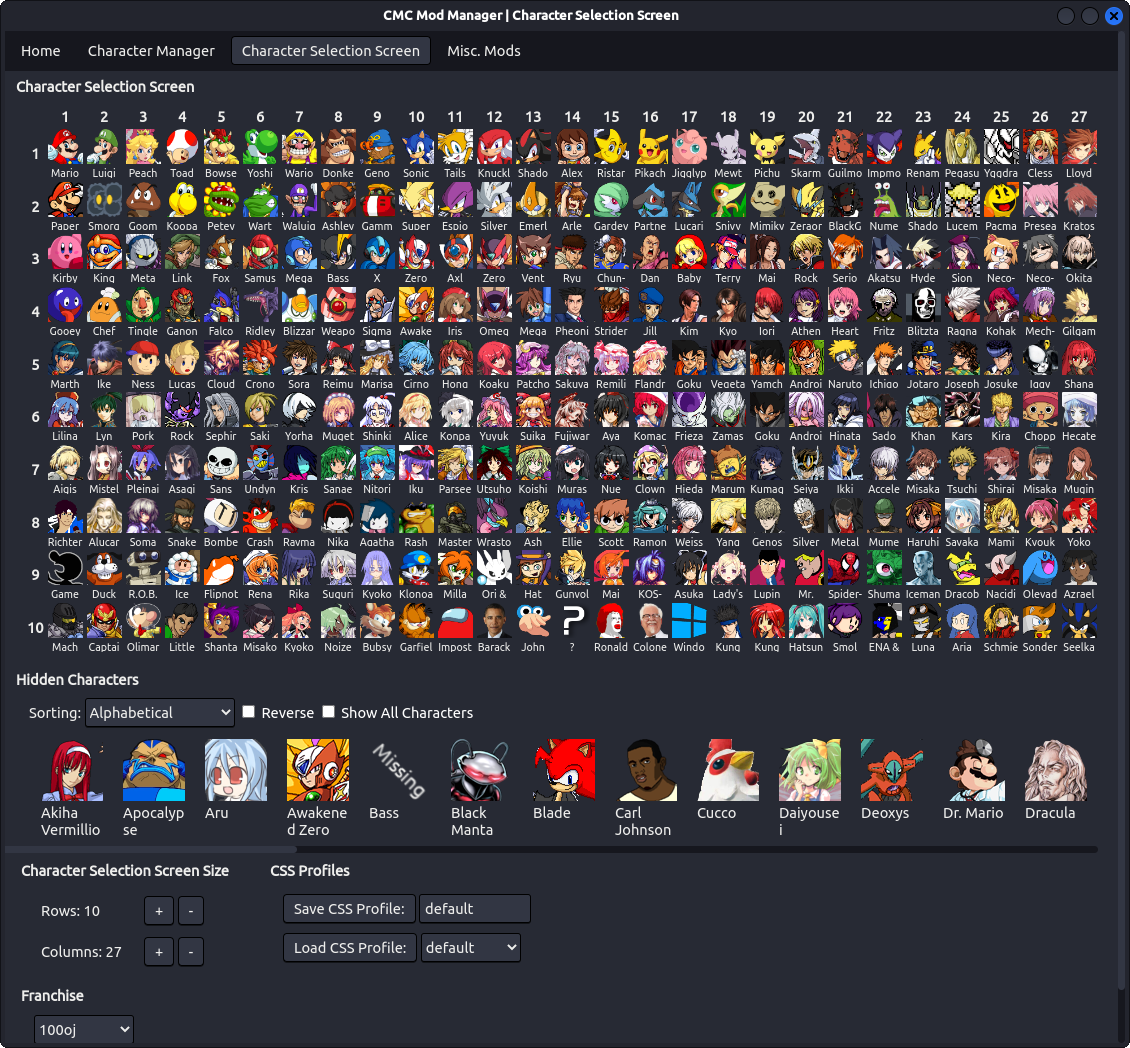
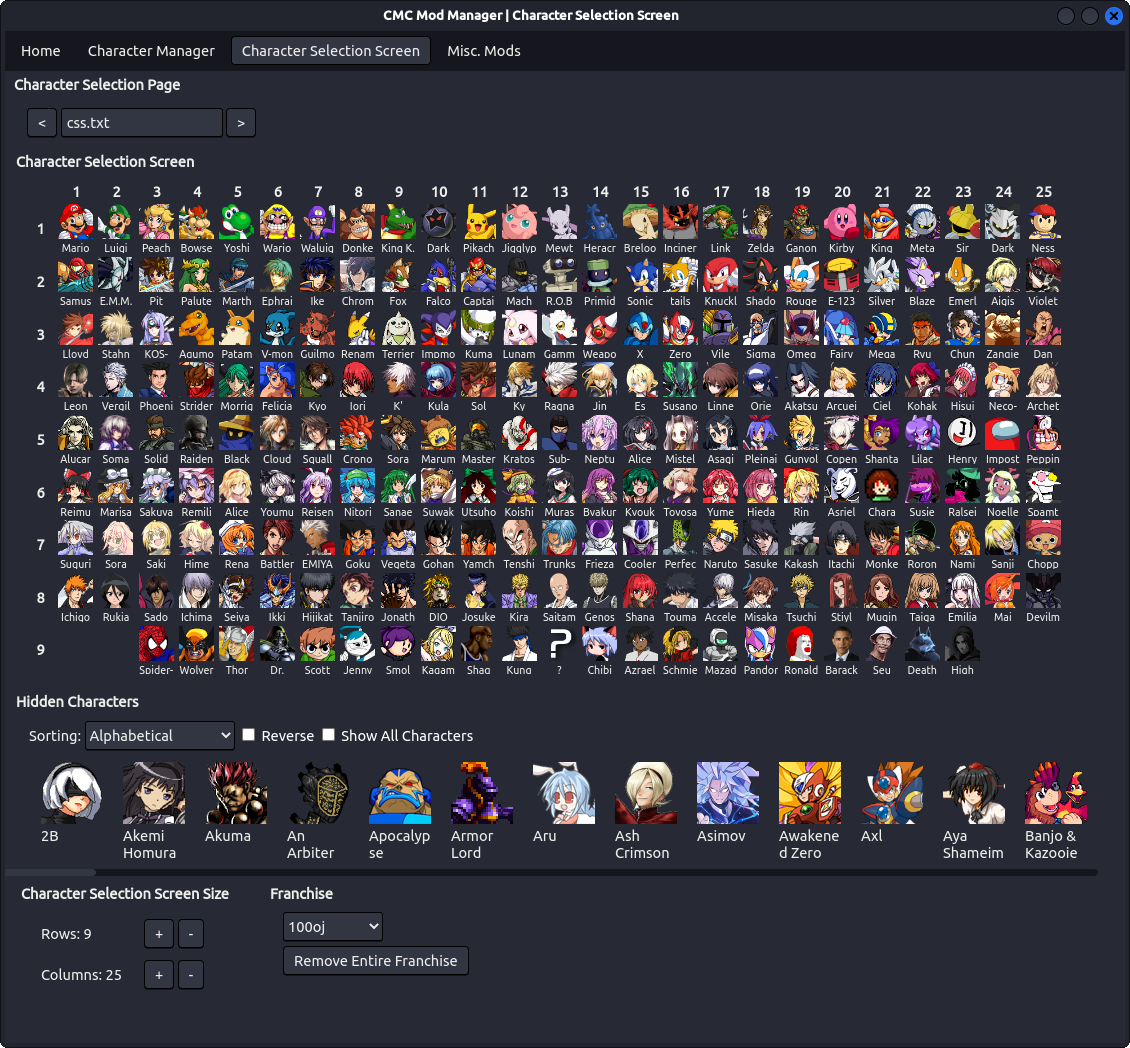
Staging For First Release

diff --git a/README.md b/README.md
@@ -1,45 +1,49 @@
 # CMC Mod Manager
-
 ## What
-This project is a WIP mod manager for Super Smash Brothers Crusade CMC+. It allows for the installation and managing of mods through a gui.
+This project is a WIP mod manager for Super Smash Brothers Crusade CMC+. It allows for the installation and management of mods through a GUI.
+### NOTE:
+Usage of this mod manger will 'spoil' the hidden characters as they are displayed in the program without the locked icon.
 ### Supported Versions
 - [ ] [CMC+ v8](https://gamebanana.com/mods/50383)
 - [x] [CMC+ v7.1.1](https://gamebanana.com/mods/50383)
 - [x] [CMC+ Open Build](https://discord.gg/kAbEBkx5Y4)
 ## Why
-CMC+ has good modding support and modding the game currently isn't that hard why use a mod manager? The main reason I developed this mod manager is for the CSS (Character Selection Screen) editor. Although it is certainly possible, adding characters to the CSS by hand annoyed me because of the need to find character numbers and names (if you are removing unknown characters). CMC Mod Manager allows you to add, swap or remove chracters to/from the CSS (and soon the SSS) with drag and drop.
+CMC+ has good modding support and modding the game currently isn't that hard why use a mod manager? The main reason I developed this mod manager is for the CSS (Character Selection Screen) editor. Although it is certainly possible, adding characters to the CSS by hand annoyed me because of the need to find character numbers and names (if you are removing unknown characters). CMC Mod Manager allows you to add, swap or remove characters to/from the CSS (and soon the SSS) with drag and drop.
 
-![CSS Editor](./CSS.png)
+<details>
+  <summary>Character Selection Screen Editor (Contains Locked Character Spoilers)</summary>
+
+  ![CSS Editor](./CSS.png)
+</details>
+
 ## Installation
 Go [here](https://github.com/Inferno214221/CMCModManager/releases/latest) to install the latest release of CMC Mod Manager for your operating system.
 ### Windows
 After downloading the zip, extract it in the directory you wish to install it in and run the exe.
 #### NOTE:
-When installing the basegame, merging, installing mods or completing any other task that requires file system operations Windows will say that the program is not responding. This is Window's fault not mine, the program is actually doing what it is supposed to, just wait for it to finish. The program makes two copies of the game, one without mods and one with mods, so it will sometimes take a while (I'm running it on an M.2 and I still had this issue so please just be patient).
+When installing the basegame, merging, installing mods or completing any other task that requires file system operations Windows will say that the program is not responding. This is Window's fault, not mine, the program is actually doing what it is supposed to, just wait for it to finish. The program makes two copies of the game, one without mods and one with mods, so it will sometimes take a while (I'm running it on an M.2 and I still had this issue so please just be patient).
 ### Linux
-After downloading the zip, extract it and copy the `/out/cmcmodmanager-linux-x64/` folder to where you would like to install it, e.g. `/opt` (Feel free to rename it as well). Due to CMC+ being built for windows, the default permissions are very wierd with some directories being read only. To fix this it is very important that you run `sudo chmod 777 ./* -R` in your CMC game directory before installing it with your mod manager, otherwise the program will be unable to remove some of the files it is using.
+After downloading the zip, extract it and copy the `/out/cmcmodmanager-linux-x64/` folder to where you would like to install it, e.g. `/opt` (Feel free to rename it as well). Due to CMC+ being built for Windows, the default permissions are very weird with some directories being read-only. To fix this it is very important that you run `sudo chmod 777 ./* -R` in your CMC game directory before installing it with your mod manager, otherwise, the program will be unable to remove some of the files it is using.
 #### NOTE:
-If you are having issues running SSBC / CMC+ on Linux, use wine version 6 rather than 7 or 8 and it plays perfectly (Idk what proton version).
+If you are having issues running SSBC / CMC+ on Linux, use Wine version 6 rather than 7 or 8 and it plays perfectly (Idk what proton version).
 ### MacOS
-Install [Asahi Linux](https://asahilinux.org/), then procede with the Linux installation steps. 
+Install [Asahi Linux](https://asahilinux.org/), then proceed with the Linux installation steps. 
 #### NOTE:
 The above statement is double reverse sarcastic.
 ## Usage
-// ensure characters are correct
-## Notes
-This is my first time using Electron and therefore the code is a bit of a mess sorry.
+After installing CMC Mod Manager the first step is to import the basegame. Under the 'Home' tab select 'Import Basegame' and select the folder with CMC's exe in it. After pressing OK, the mod manager will make a copy of the game in its own directory, which might take a while. Afterwards, you can delete the previous copy and only use the mod manager's if you'd like to save space. When importing the basegame or merging mods on Windows, it is very likely that you will receive a warning that the program is not responding. Please ignore this and let it run anyway.
+
+To install character mods, switch to the 'Character Manager' tab and select 'Install from Directory' or 'Install From Archive'. Any characters that you want to install should be formatted correctly so that all of the files in the mod's directory would be copied into the game's without modification (e.g. no separate folders for different game versions). After installing any mod, remember to 'Merge All Mods' from the 'Home' tab.
+
+The 'Character Selection Screen' tab can be used after merging to modify which characters are available to choose from on the selection screen by dragging and dropping characters between the CSS grid and the list underneath.
 ## It's not working!
-// if characters are correct
-// manual fix
-// github bug report
+Please insure that all mods that are installed are in the correct format and that the program has been use correctly. If a breakage occured installing a mod, try removing it via the mod manager, or manually in the `installed.json` file and deleteing the manager's copy of the mod's folder.
 
-///////////////////
-## Features (WIP)
-This mod manager works by storing a copy of the basegame and all installed mods separately and then merging them in the designated order.
-
-When installing characters, it is likely that some mods will not work properly unless they are in the correct format. Mods should be able to be copied straight into the CMC folder to install manually.
+If none of these options are fixing the problem please submit and issue on github with information about what went wrong and when. (Check that no one else has the same issue first.)
+## Notes
+This is my first time using Electron and therefore the code is a bit of a mess sorry. Also, I am not very good at designing GUIs so this one might be unintuitive. Feel free to provide suggestions for interface improvements although be warned they may be declined.
 ## Progress
-### Main Page (Priority: 1)
+### Main Page
 - [x] Install the unmodified version of CMC
 - [x] Merge installed characters
 - [x] Open basegame and merged directories in local file manager
@@ -53,7 +57,7 @@ When installing characters, it is likely that some mods will not work properly u
 - [ ] Make stages.txt & others on export
 - [x] Alerts
 - [ ] Errors
-### Character Manager (Priority: 2)
+### Character Manager
 - [x] Install characters from a folder (very picky)
 - [x] Install characters from a zip (extract, install folder, delete)
 - [x] List installed mod characters
@@ -63,7 +67,7 @@ When installing characters, it is likely that some mods will not work properly u
 - [x] Delete instructions txt file on merge
 - [x] RAR support - no errors
 - [ ] Errors
-### Character Selection Screen (Priority: 3)
+### Character Selection Screen (Priority: 1)
 - [x] Display the CSS
 - [x] Display unincluded characters (not alts)
 - [x] Add characters to CSS
@@ -75,20 +79,23 @@ When installing characters, it is likely that some mods will not work properly u
 - [x] Drag and Drop
 - [x] Replace characters
 - [x] Change the number of rows & columns
-- [x] Uninstalled characters are removed when the css is updated to prevent locked icons
+- [x] Uninstalled characters are removed
+- [ ] Switch CSS Pages
+- [ ] Add CSS Pages
+- [ ] Edit Game Settings to change displayed list
 - [ ] Alerts
 - [ ] Errors
-### Alts (Priority: 7)
+### Alts (Priority: 5)
 - [ ] IDFK how I should deal with alts
 - [ ] Alerts
 - [ ] Errors
-### Stage Manager (Priority: 5)
+### Stage Manager (Priority: 4)
 - [ ] Install stages from a folder
 - [ ] Install stages from a zip (extract, install folder, delete)
 - [ ] Manage stage merge priority
 - [ ] Alerts
 - [ ] Errors
-### Stage Selection Screen (Priority: 6)
+### Stage Selection Screen (Priority: 4)
 - [ ] Display the SSS w/ pages
 - [ ] Display unincluded stages
 - [ ] Add stages to SSS
@@ -100,12 +107,15 @@ When installing characters, it is likely that some mods will not work properly u
 - [ ] Add pages
 - [ ] Alerts
 - [ ] Errors
-### Items (Priority: 8?)
+### Items (Priority: 6)
 - [ ] Install item mods - Not many mods & idk if it works with CMC+ v7
 - [ ] Remove item mods
 - [ ] Alerts
 - [ ] Errors
-### Miscellanious Mods (Priority: 4)
+### Miscellanious Mods (Priority: 3)
 - [x] Add option to import other types of mods e.g. ui changes / music
 - [x] RAR support - no errors
 - [ ] Errors
+### Mod Tools (Priority: 2)
+- [ ] CMC+ v7 dat to v8 dat
+- [ ] Character Extractor
